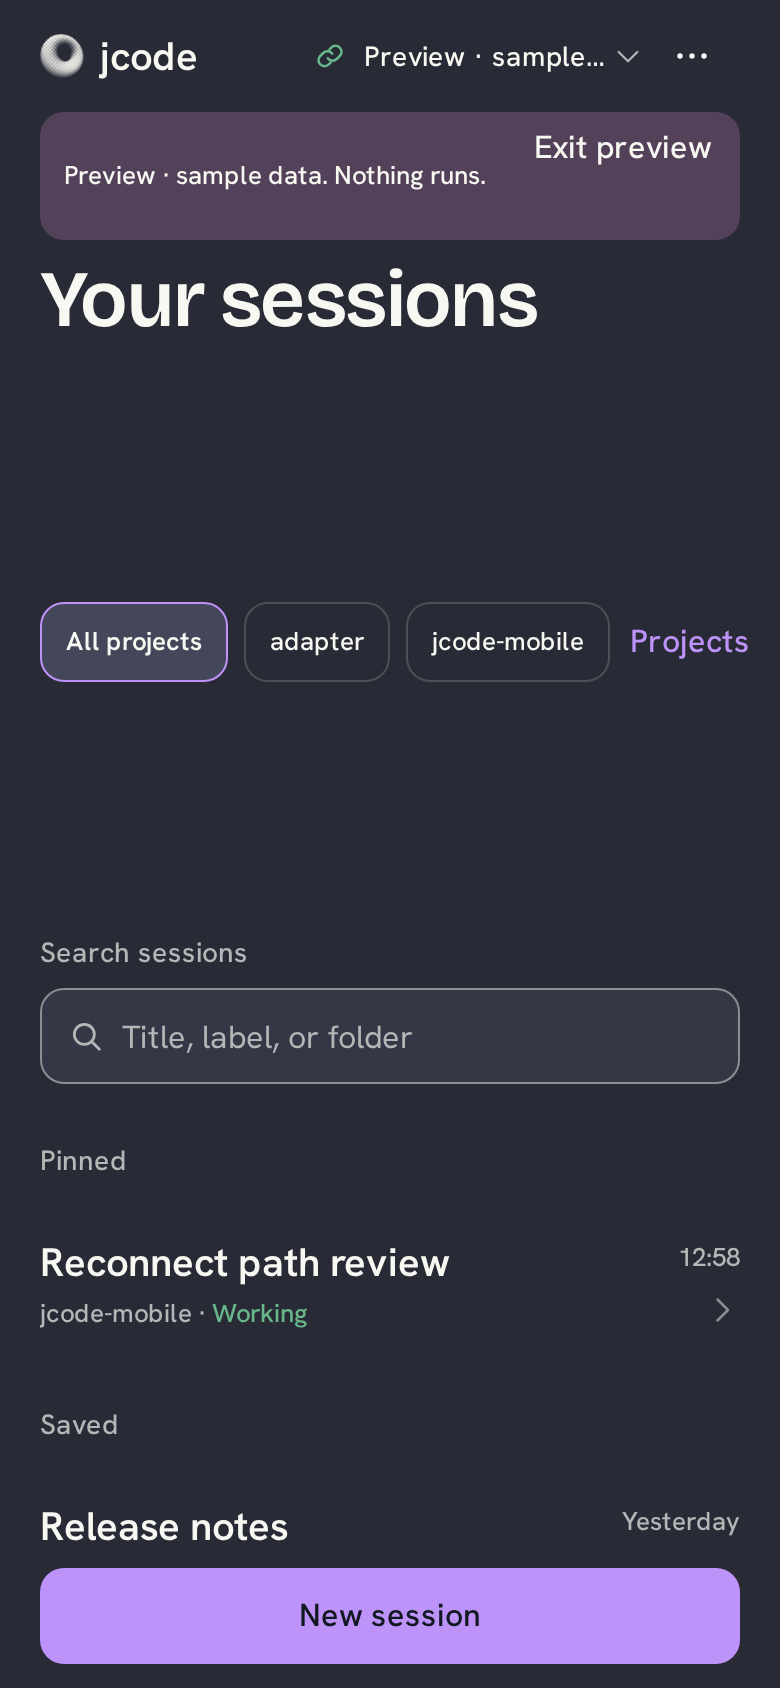
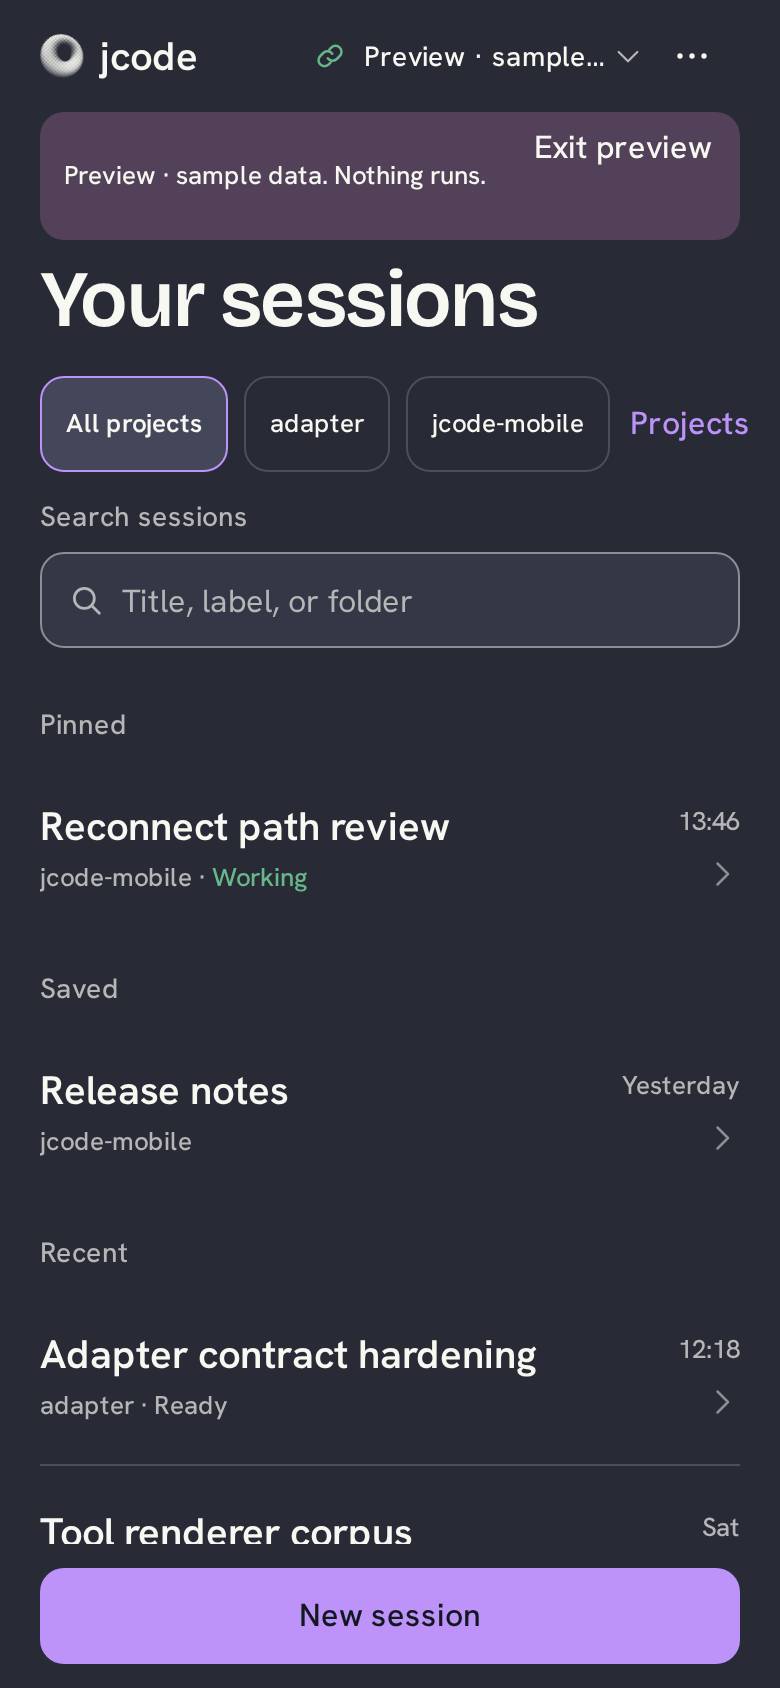
style: keep scope and message actions on the 48-unit grid
- constrain the horizontal project scope row
- raise message, scope, config and model controls to 48 units
- refresh the Night sessions evidence

Refs #1

diff --git a/src/features/sessions/SessionsScreen.tsx b/src/features/sessions/SessionsScreen.tsx
@@ -260,6 +260,7 @@ export function SessionsScreen() {
 
       <ScrollView
         horizontal
+        style={styles.scopeScroll}
         showsHorizontalScrollIndicator={false}
         contentContainerStyle={styles.scopeRow}
         testID="project-scope"
@@ -764,8 +765,9 @@ const styles = StyleSheet.create({
     alignItems: 'center',
     paddingBottom: space.sm,
   },
+  scopeScroll: { flexGrow: 0, flexShrink: 0, maxHeight: 64 },
   scopeChip: {
-    minHeight: 40,
+    minHeight: target,
     paddingHorizontal: space.sm,
     borderWidth: 1,
     borderRadius: radius.control,

diff --git a/src/features/newSession/NewSessionSheet.tsx b/src/features/newSession/NewSessionSheet.tsx
@@ -387,7 +387,7 @@ const styles = StyleSheet.create({
   configHeader: { flexDirection: 'row', justifyContent: 'space-between', alignItems: 'center' },
   modelRow: { flexDirection: 'row', flexWrap: 'wrap', gap: space.xxs, marginTop: space.xxs },
   chip: {
-    minHeight: 40,
+    minHeight: target,
     paddingHorizontal: space.sm,
     borderWidth: 1,
     borderRadius: radius.control,

diff --git a/src/features/conversation/MessageActions.tsx b/src/features/conversation/MessageActions.tsx
@@ -89,8 +89,8 @@ function CopyAction({
 const styles = StyleSheet.create({
   row: { flexDirection: 'row', alignItems: 'center', marginTop: space.xxs, gap: space.xxs },
   action: {
-    minHeight: 40,
-    minWidth: target / 2,
+    minHeight: target,
+    minWidth: target,
     flexDirection: 'row',
     alignItems: 'center',
     paddingHorizontal: space.xxs,

diff --git a/src/features/conversation/ConversationScreen.tsx b/src/features/conversation/ConversationScreen.tsx
@@ -1194,7 +1194,7 @@ const styles = StyleSheet.create({
     marginBottom: space.xxs,
   },
   configButton: {
-    minHeight: 40,
+    minHeight: target,
     flexDirection: 'row',
     alignItems: 'center',
     gap: 2,
